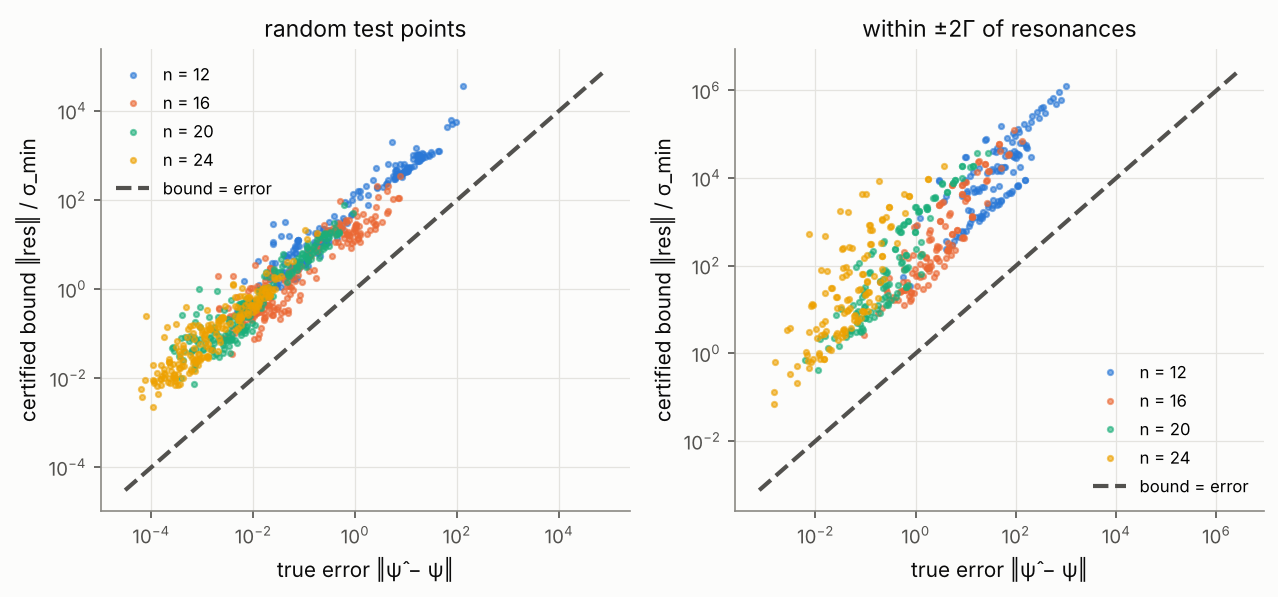
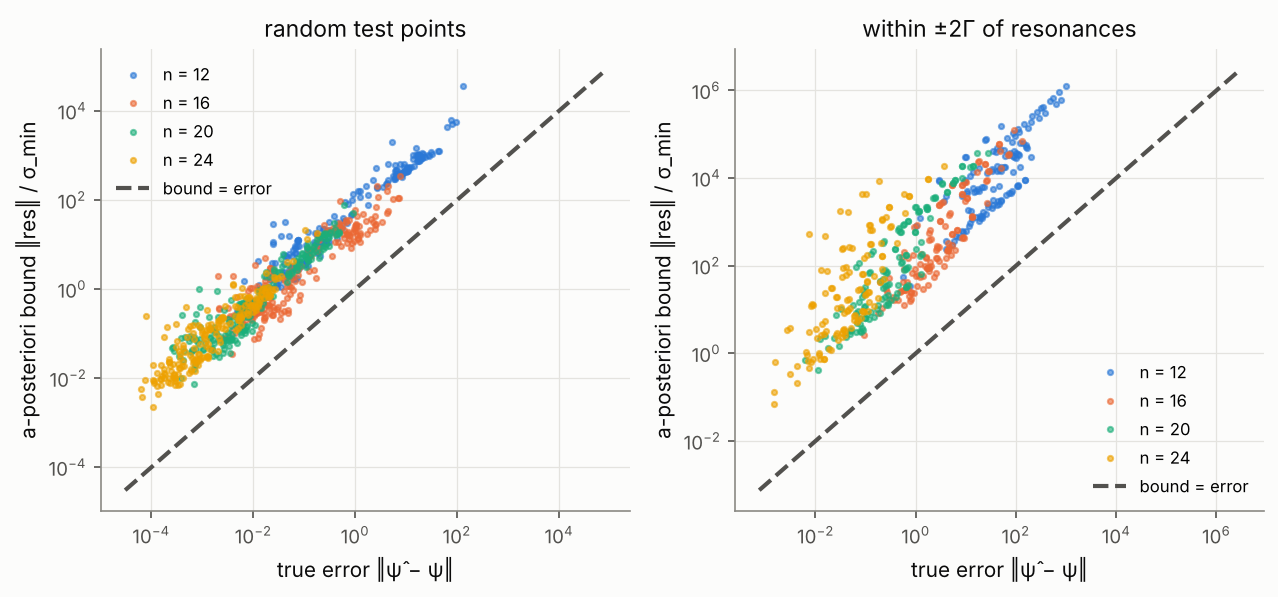
Phase 7 summary and figure E regenerated: labels only ('three parameters', 'a-posteriori bound'); numbers unchanged
Claude-Session: https://claude.ai/code/session_01Tx9SMnP28KCJG9eaZ33C3e

diff --git a/results/phase7/SUMMARY.md b/results/phase7/SUMMARY.md
@@ -85,7 +85,7 @@ Pole shift when the domain grows (rel_cut × 1e-2): 7.2e-07, 4.9e-06, 1.5e-05
 | 100000 | 9.90e-05 | 3 | 3 / 3 |
 
 <!-- generalization: commit 2a57273, modified since commit: False, wall 1341 s -->
-## B/C. Generalisation and fair comparison (3D: E, V_L, V_R)
+## B/C. Generalisation and fair comparison (three parameters E, V_L, V_R; 1D space)
 
 FOM: 4331 nodes, h = 0.0025, X = 5.4125. RBF kernel chosen on validation: **linear** (validation RMSE of t: thin_plate_spline 2.3e-01, cubic 2.8e-01, quintic 3.9e-01, linear 2.1e-01).
 Data-driven baselines on the pre-declared design `sobol` only.
@@ -211,7 +211,7 @@ Data-driven baselines on the pre-declared design `sobol` only.
 
 ## E. Residual reliability (greedy RB)
 
-Certified bound: ‖e_ψ‖ ≤ ‖res‖ / σ_min(A), σ_min from the banded Golub–Kahan eigenproblem minus a floating-point margin. Power iteration (Phase 6) gives a *lower* estimate of ‖A⁻¹‖: its product with the certified σ_min ranges over [0.966215, 0.999998], so it cannot serve as a bound.
+A-posteriori bound (exact in exact arithmetic, evaluated in floating point; called `certified` in the data): ‖e_ψ‖ ≤ ‖res‖ / σ_min(A), σ_min from the banded Golub–Kahan eigenproblem minus a heuristic floating-point margin. Power iteration (Phase 6) gives a *lower* estimate of ‖A⁻¹‖: its product with the margin-corrected σ_min ranges over [0.966215, 0.999998], so it cannot serve as a bound.
 
 | n | points | Spearman(res, ‖e_ψ‖) | Spearman(res, abs e_t) | bound holds (ψ) | bound holds (t)* | median bound/‖e_ψ‖ | median bound/abs e_t |
 |---|---|---|---|---|---|---|---|
